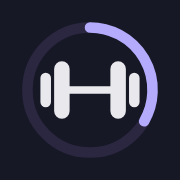
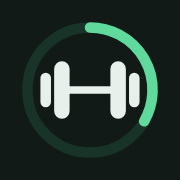
Tons de verde, rótulo da semana sem quebra e aviso ao concluir treino
- Troca a paleta lilás por tons de verde (app, ícone e manifesto).
- Rótulo de terça na faixa da semana passa a 'Braços' e as palavras
  não quebram mais no meio.
- Ao tocar em 'Concluir treino' com séries por marcar, mostra quais
  exercícios estão incompletos e pede confirmação.

Claude-Session: https://claude.ai/code/session_01XUsPRTrN34QXm9K14VDyo8

Changed region(s): [[0.1111, 0.1111, 0.8889, 0.8889]]

diff --git a/index.html b/index.html
@@ -4,7 +4,7 @@
 <meta charset="utf-8">
 <meta name="viewport" content="width=device-width,initial-scale=1,viewport-fit=cover">
 <title>Treino em Casa</title>
-<meta name="theme-color" content="#161826">
+<meta name="theme-color" content="#111a16">
 <meta name="apple-mobile-web-app-capable" content="yes">
 <meta name="mobile-web-app-capable" content="yes">
 <meta name="apple-mobile-web-app-status-bar-style" content="black-translucent">
@@ -15,13 +15,13 @@
 <link rel="preconnect" href="https://fonts.googleapis.com">
 <link rel="stylesheet" href="https://fonts.googleapis.com/css2?family=Inter:wght@400;500;600;700;800&display=swap">
 <style>
-/* Mesmo visual do app Habilitação Operacional: fundo azul-noite, cartões arredondados, destaque lilás, menu fixo embaixo */
+/* Mesmo visual do app Habilitação Operacional: fundo verde-escuro, cartões arredondados, destaque verde, menu fixo embaixo */
 :root{
-  --bg:#161826; --card:#1b1d2b; --card-2:#232532; --line:#2b2d3a; --line-2:#3f424d;
-  --ink:#e9e9ed; --soft:#cfd3e5; --muted:#9397ab; --dim:#75798c;
-  --accent:#b5abfc; --accent-2:#d2cefd; --accent-bg:#2b2741; --accent-line:#5d5294;
-  --ok:#8fd3a8; --ok-bg:#1f3329; --warn:#e0a06b; --warn-bg:#33251d;
-  --weight:#e0a06b; --fig:#e9e9ed; --fig-far:#595d6c; --tile:#232532; --floor:#3f424d; --mat:#2b2741;
+  --bg:#111a16; --card:#16211c; --card-2:#1d2a24; --line:#25332c; --line-2:#33453c;
+  --ink:#e7f0eb; --soft:#c8dbd0; --muted:#8ea398; --dim:#6c8177;
+  --accent:#5fd99c; --accent-2:#a8f0c8; --accent-bg:#183327; --accent-line:#2e6b4e;
+  --ok:#a3e07a; --ok-bg:#22331b; --warn:#e0a06b; --warn-bg:#33251d;
+  --weight:#e0a06b; --fig:#e7f0eb; --fig-far:#4f6359; --tile:#1d2a24; --floor:#33453c; --mat:#183327;
   --font:"Inter",system-ui,-apple-system,"Segoe UI",sans-serif;
   color-scheme:dark;
 }
@@ -65,7 +65,7 @@ button{cursor:pointer}
 .trio b{font-size:1.15rem;font-weight:500}
 
 .btn{border:1px solid var(--line-2);background:var(--card-2);border-radius:12px;padding:10px 14px;font-weight:600;font-size:.9rem}
-.btn.primary{background:var(--accent);color:#1b1d2b;border-color:var(--accent);width:100%;padding:14px;font-size:1rem}
+.btn.primary{background:var(--accent);color:#0d1a13;border-color:var(--accent);width:100%;padding:14px;font-size:1rem}
 .btn.ghost{background:transparent}
 .btn:active{transform:scale(.98)}
 :focus-visible{outline:2px solid var(--accent);outline-offset:2px}
@@ -74,10 +74,10 @@ button{cursor:pointer}
 .week{display:grid;grid-template-columns:repeat(7,minmax(0,1fr));gap:5px;margin-top:12px}
 .wd{border-radius:12px;padding:8px 2px;text-align:center;background:var(--card-2);border:1px solid var(--line);min-width:0}
 .wd b{display:block;font-size:.72rem;font-weight:600;color:var(--muted);text-transform:uppercase}
-.wd i{display:block;font-style:normal;font-size:.62rem;color:var(--dim);margin-top:3px;line-height:1.15;overflow-wrap:anywhere}
+.wd i{display:block;font-style:normal;font-size:.62rem;color:var(--dim);margin-top:3px;line-height:1.15;overflow-wrap:normal;word-break:keep-all;hyphens:none}
 .wd.train i{color:var(--soft)}
 .wd.today{border-color:var(--accent)}
-.wd.ok{background:var(--ok-bg);border-color:#2f5a44}
+.wd.ok{background:var(--ok-bg);border-color:#3d6630}
 .wd.ok i{color:var(--ok)}
 
 /* treino */
@@ -86,7 +86,7 @@ button{cursor:pointer}
 .chip small{display:block;font-size:.68rem;color:var(--muted);font-weight:500}
 .chip[aria-pressed="true"]{background:var(--accent-bg);border-color:var(--accent);color:var(--accent-2)}
 .ex{display:grid;grid-template-columns:112px minmax(0,1fr);gap:14px;align-items:start}
-.ex.done{border-color:#2f5a44}
+.ex.done{border-color:#3d6630}
 .fig{width:100%;aspect-ratio:6/5;background:var(--tile);border-radius:12px;display:block}
 .exb{display:flex;flex-direction:column;gap:5px;min-width:0}
 .exb h3{font-size:1rem;font-weight:600}
@@ -96,7 +96,7 @@ button{cursor:pointer}
 .tip{font-size:.82rem;color:var(--muted)}
 .sets{display:flex;gap:6px;flex-wrap:wrap;margin-top:4px}
 .set{width:32px;height:32px;border-radius:50%;border:1.5px solid var(--line-2);background:transparent;font-size:.8rem;font-weight:600;color:var(--muted)}
-.set.on{background:var(--ok);border-color:var(--ok);color:#16261d}
+.set.on{background:var(--ok);border-color:var(--ok);color:#13210d}
 .exrow{display:flex;gap:8px;align-items:center;flex-wrap:wrap;margin-top:4px}
 .exrow .btn{padding:6px 10px;font-size:.8rem;border-radius:10px}
 .kg{display:flex;align-items:center;gap:6px;font-size:.78rem;color:var(--muted)}
@@ -108,7 +108,7 @@ input.num{width:60px;background:var(--bg);border:1px solid var(--line-2);border-
 .chk:last-child{border-bottom:0}
 .box{width:26px;height:26px;border-radius:8px;border:1.5px solid var(--line-2);display:grid;place-items:center;flex:none;background:transparent}
 .box svg{width:16px;height:16px;opacity:0}
-.chk.on .box{background:var(--ok);border-color:var(--ok);color:#16261d}
+.chk.on .box{background:var(--ok);border-color:var(--ok);color:#13210d}
 .chk.on .box svg{opacity:1}
 .chk.on span{color:var(--muted);text-decoration:line-through}
 .bar{height:6px;border-radius:9px;background:var(--card-2);overflow:hidden;margin-top:10px}
@@ -129,7 +129,7 @@ ul.list{display:flex;flex-direction:column;gap:10px;padding-left:18px;color:var(
 ul.list b{color:var(--ink)}
 
 /* menu inferior */
-nav.tabs{position:fixed;left:0;right:0;bottom:0;z-index:30;background:rgba(22,24,38,.94);backdrop-filter:blur(12px);-webkit-backdrop-filter:blur(12px);border-top:1px solid var(--line);
+nav.tabs{position:fixed;left:0;right:0;bottom:0;z-index:30;background:rgba(17,26,22,.94);backdrop-filter:blur(12px);-webkit-backdrop-filter:blur(12px);border-top:1px solid var(--line);
   padding:8px max(8px,env(safe-area-inset-right,0px)) calc(8px + env(safe-area-inset-bottom,0px)) max(8px,env(safe-area-inset-left,0px))}
 nav.tabs .in{max-width:560px;margin:0 auto;display:grid;grid-template-columns:repeat(5,1fr);gap:4px}
 nav.tabs button{border:1px solid transparent;background:transparent;border-radius:14px;padding:8px 2px;display:flex;flex-direction:column;align-items:center;gap:4px;font-size:.7rem;color:var(--muted)}
@@ -143,11 +143,33 @@ nav.tabs button[aria-current="page"]{background:var(--accent-bg);border-color:va
 .timer.end .in{border-color:var(--ok)}
 .timer.end b{color:var(--ok)}
 .timer .btn{padding:6px 10px;font-size:.8rem}
+/* aviso de confirmação */
+.modal{position:fixed;inset:0;z-index:50;background:rgba(5,10,8,.7);display:flex;align-items:flex-end;justify-content:center;
+  padding:16px max(16px,env(safe-area-inset-right,0px)) calc(16px + env(safe-area-inset-bottom,0px)) max(16px,env(safe-area-inset-left,0px))}
+.modal .sheet{width:100%;max-width:520px;background:var(--card);border:1px solid var(--warn);border-radius:20px;padding:20px;display:flex;flex-direction:column;gap:12px;max-height:85vh;overflow:auto}
+.modal h2{font-size:1.15rem;font-weight:600}
+.modal ul{list-style:none;display:flex;flex-direction:column;gap:6px}
+.modal li{display:flex;justify-content:space-between;gap:10px;font-size:.88rem;border-bottom:1px solid var(--line);padding-bottom:6px}
+.modal li b{color:var(--warn);font-weight:600;white-space:nowrap}
+.modal .acts{display:flex;flex-direction:column;gap:8px;margin-top:4px}
+@media (min-width:600px){.modal{align-items:center}}
 @media (prefers-reduced-motion:reduce){.bar i{transition:none}}
 </style>
 </head>
 <body>
 <div class="app" id="app"></div>
+
+<div class="modal" id="modal" hidden role="dialog" aria-modal="true" aria-labelledby="mtitle"><div class="sheet">
+  <div class="label" style="color:var(--warn)">Atenção</div>
+  <h2 id="mtitle">Ainda faltam séries</h2>
+  <p class="small muted" id="mtext"></p>
+  <ul id="mlist"></ul>
+  <p class="small">Tem certeza de que concluiu tudo?</p>
+  <div class="acts">
+    <button class="btn primary" id="myes" type="button">Sim, concluí tudo</button>
+    <button class="btn" id="mno" type="button">Não, voltar ao treino</button>
+  </div>
+</div></div>
 
 <div class="timer" id="timer" hidden><div class="in">
   <span class="small muted">Descanso</span><b id="tleft">1:30</b>
@@ -159,26 +181,26 @@ nav.tabs button[aria-current="page"]{background:var(--accent-bg);border-color:va
 
 <script>
 const DAYS = [
-  {id:'d1', curto:'Pernas A', titulo:'Pernas e glúteos A', foco:'Foco em quadríceps e glúteos', dia:'Segunda', wd:1, itens:[
+  {id:'d1', curto:'Pernas A', mini:'Pernas A', titulo:'Pernas e glúteos A', foco:'Foco em quadríceps e glúteos', dia:'Segunda', wd:1, itens:[
     ['goblet','Agachamento com halter','4 séries de 15 repetições',4,'Segure o peso junto ao peito e desça controladamente, em 3 segundos.',90,'Os dois halteres de 5 kg juntos (10 kg)'],
     ['afundo','Afundo com halteres','3 séries de 10–12 por perna',3,'Mantenha o tronco firme e desça sem pressa.',90,'Um halter de 5 kg em cada mão'],
     ['sumo','Agachamento sumô','3 séries de 15–20 repetições',3,'Pés afastados e pontas levemente para fora. Pare 1 segundo embaixo.',90,'Os dois halteres de 5 kg juntos (10 kg)'],
     ['pontePeso','Elevação de quadril com peso','4 séries de 15–20 repetições',4,'Contraia os glúteos no alto e segure 2 segundos.',90,'Os dois halteres de 5 kg sobre o quadril (10 kg)'],
     ['extensao','Extensão de joelho com caneleira','3 séries de 15 por perna',3,'Estenda o joelho sem dar impulso e segure 2 segundos lá em cima.',60,'Caneleira de 3 kg']]},
-  {id:'d2', curto:'Superior', titulo:'Braços, costas, ombros e abdômen', foco:'Foco em membros superiores', dia:'Terça', wd:2, itens:[
+  {id:'d2', curto:'Superior', mini:'Braços', titulo:'Braços, costas, ombros e abdômen', foco:'Foco em membros superiores', dia:'Terça', wd:2, itens:[
     ['remada','Remada curvada','3 séries de 12–15 repetições',3,'Tronco inclinado e costas retas; puxe os cotovelos para trás.',90,'Um halter de 5 kg em cada mão'],
     ['desenv','Desenvolvimento de ombros','3 séries de 12 repetições',3,'Empurre os halteres para cima sem arquear a lombar.',90,'5 kg em cada mão (use 3 kg se não completar as 12)'],
     ['rosca','Rosca bíceps','3 séries de 12 repetições',3,'Cotovelos colados ao corpo, sem balançar o tronco.',60,'Um halter de 5 kg em cada mão'],
     ['frances','Tríceps francês','3 séries de 12–15 repetições',3,'Cotovelos apontados para cima; mova só o antebraço.',60,'Um halter de 5 kg segurado com as duas mãos'],
     ['lateral','Elevação lateral','3 séries de 12–15 repetições',3,'Suba os braços até a altura dos ombros, devagar.',60,'Um halter de 3 kg em cada mão'],
     ['prancha','Prancha abdominal','3 séries de 30–40 segundos',3,'Corpo em linha reta, abdômen e glúteos contraídos.',60,'Sem peso']]},
-  {id:'d3', curto:'Pernas B', titulo:'Pernas e glúteos B', foco:'Foco em posterior e glúteos', dia:'Quinta', wd:4, itens:[
+  {id:'d3', curto:'Pernas B', mini:'Pernas B', titulo:'Pernas e glúteos B', foco:'Foco em posterior e glúteos', dia:'Quinta', wd:4, itens:[
     ['stiff','Stiff com halteres','4 séries de 12–15 repetições',4,'Leve o quadril para trás, mantendo a coluna neutra. Desça em 3 segundos.',90,'Um halter de 5 kg em cada mão'],
     ['bulgaro','Agachamento búlgaro','3 séries de 10 por perna',3,'Use uma cadeira firme para apoiar o pé de trás.',90,'3 kg em cada mão; passe para 5 kg quando ficar fácil'],
     ['coice','Coice de glúteo com caneleira','3 séries de 15–20 por perna',3,'Suba a perna sem arquear a lombar e segure 1 segundo no alto.',60,'Caneleira de 3 kg'],
     ['abducao','Abdução de quadril com caneleira','3 séries de 15–20 por perna',3,'Deitada de lado, suba a perna de cima com controle.',60,'Caneleira de 3 kg'],
     ['ponte','Elevação de quadril','3 séries de 20 repetições',3,'Contraia os glúteos no alto, segure 2 segundos e desça devagar.',60,'Sem peso']]},
-  {id:'d4', curto:'Corpo todo', titulo:'Corpo todo + abdômen', foco:'Foco em fortalecimento geral', dia:'Sábado', wd:6, itens:[
+  {id:'d4', curto:'Corpo todo', mini:'Corpo todo', titulo:'Corpo todo + abdômen', foco:'Foco em fortalecimento geral', dia:'Sábado', wd:6, itens:[
     ['agdesenv','Agachamento com desenvolvimento','3 séries de 12 repetições',3,'Ao subir do agachamento, empurre os halteres para cima.',90,'Um halter de 3 kg em cada mão'],
     ['stiff','Stiff com halteres','3 séries de 12–15 repetições',3,'Leve o quadril para trás, mantendo a coluna neutra.',90,'Um halter de 5 kg em cada mão'],
     ['remada1','Remada com halteres','3 séries de 12–15 por braço',3,'Puxe o halter em direção ao quadril.',90,'Um halter de 5 kg'],
@@ -364,7 +386,7 @@ function header(title){
 }
 function weekStrip(){
   return `<div class="week">${[1,2,3,4,5,6,0].map(i=>{const d=DAYS.find(x=>x.wd===i);
-    return `<div class="wd${d?' train':''}${today.getDay()===i?' today':''}${d&&cw()[d.id]?' ok':''}"><b>${NOMES_SEMANA[i]}</b><i>${d?d.curto:'Folga'}</i></div>`;}).join('')}</div>`;
+    return `<div class="wd${d?' train':''}${today.getDay()===i?' today':''}${d&&cw()[d.id]?' ok':''}"><b>${NOMES_SEMANA[i]}</b><i>${d?d.mini:'Folga'}</i></div>`;}).join('')}</div>`;
 }
 function painel(){
   const n=doneCount(), C=2*Math.PI*84, td=todayDay();
@@ -383,7 +405,7 @@ function painel(){
       <div><span class="eyebrow">Programa</span><b>S${st.semana}/4</b></div>
       <div><span class="eyebrow">Meta</span><b>4 dias</b></div></div>
   </div>
-  ${td&&cw()[td.id]?`<div class="card" style="border-color:#2f5a44"><div class="label" style="color:var(--ok)">${ico('check','style="color:var(--ok)"')}Treino de hoje concluído</div><p class="small muted" style="margin-top:6px">Boa! Descanse e se alimente bem.</p></div>`:''}
+  ${td&&cw()[td.id]?`<div class="card" style="border-color:#3d6630"><div class="label" style="color:var(--ok)">${ico('check','style="color:var(--ok)"')}Treino de hoje concluído</div><p class="small muted" style="margin-top:6px">Boa! Descanse e se alimente bem.</p></div>`:''}
   ${!td?`<div class="card warn"><h2>Hoje é dia de descanso</h2><p class="small muted" style="margin-top:4px">A recuperação faz parte do ganho de massa.</p></div>`:''}
   <div class="card accent">
     <div class="label">${ico('treino')}Próximo treino · ${prox.txt}</div>
@@ -411,7 +433,7 @@ function treino(){
         <div class="exrow"><button type="button" class="btn rest" data-r="${rest}">Descanso ${fmt(rest)}</button>
           <label class="kg">Carga S${st.semana}<input class="num" type="text" inputmode="decimal" placeholder="kg" value="${c}" data-sk="${sk}"></label></div>
       </div></article>`;}).join('')}
-  <button class="btn primary" id="fin" type="button" ${feito?'style="background:var(--ok);border-color:var(--ok);color:#16261d"':''}>${feito?'Treino concluído ✓ (toque para desfazer)':'Concluir treino de '+d.dia.toLowerCase()}</button>`;
+  <button class="btn primary" id="fin" type="button" ${feito?'style="background:var(--ok);border-color:var(--ok);color:#13210d"':''}>${feito?'Treino concluído ✓ (toque para desfazer)':'Concluir treino de '+d.dia.toLowerCase()}</button>`;
 }
 function bindTreino(){
   document.querySelectorAll('.chip').forEach(b=>b.onclick=()=>{st.dia=b.dataset.d;save();render();});
@@ -423,8 +445,21 @@ function bindTreino(){
     if(arr[s]&&s<n-1)startTimer(+b.dataset.r);});
   document.querySelectorAll('.rest').forEach(b=>b.onclick=()=>startTimer(+b.dataset.r));
   document.querySelectorAll('input.num').forEach(inp=>inp.oninput=()=>{setCarga(inp.dataset.sk,st.semana,inp.value);});
-  $('fin').onclick=()=>{setCheck(st.dia,!cw()[st.dia]);render();};
+  $('fin').onclick=()=>{
+    if(cw()[st.dia]){setCheck(st.dia,false);render();return;}
+    const d=DAYS.find(x=>x.id===st.dia);
+    const falta=d.itens.map(([,nome,,n],i)=>({nome,n,feitas:(st.series[d.id+'-'+i]||[]).filter(Boolean).length})).filter(x=>x.feitas<x.n);
+    if(!falta.length){concluir(d);return;}
+    const total=falta.reduce((a,x)=>a+(x.n-x.feitas),0), semNada=falta.filter(x=>x.feitas===0).length;
+    $('mtext').textContent=`Faltam ${total} ${total===1?'série':'séries'} em ${falta.length} ${falta.length===1?'exercício':'exercícios'}`+(semNada?` (${semNada} sem nenhuma série marcada)`:'')+':';
+    $('mlist').innerHTML='';
+    falta.forEach(x=>{const li=document.createElement('li'),a=document.createElement('span'),b=document.createElement('b');
+      a.textContent=x.nome;b.textContent=`${x.feitas} de ${x.n} séries`;li.append(a,b);$('mlist').appendChild(li);});
+    $('modal').hidden=false; $('mno').focus();
+    $('myes').onclick=()=>{$('modal').hidden=true;d.itens.forEach((it,i)=>{st.series[d.id+'-'+i]=Array(it[3]).fill(true);});concluir(d);};
+  };
 }
+function concluir(d){setCheck(d.id,true);render();window.scrollTo(0,0);}
 function semana(){
   const n=doneCount();
   return header('Semana')+`
@@ -487,6 +522,9 @@ function startTimer(s){tLeft=s;$('timer').hidden=false;$('timer').classList.remo
   tInt=setInterval(()=>{tLeft--;showT();if(tLeft<=0){clearInterval(tInt);$('timer').classList.add('end');$('tleft').textContent='Bora!';
     try{navigator.vibrate&&navigator.vibrate([200,100,200]);}catch(e){}}},1000);}
 function showT(){$('tleft').textContent=fmt(Math.max(0,tLeft));}
+$('mno').onclick=()=>{$('modal').hidden=true;};
+$('modal').addEventListener('click',e=>{if(e.target.id==='modal')$('modal').hidden=true;});
+document.addEventListener('keydown',e=>{if(e.key==='Escape')$('modal').hidden=true;});
 $('tplus').onclick=()=>{if(tLeft<=0)startTimer(15);else{tLeft+=15;showT();}};
 $('tstop').onclick=()=>{clearInterval(tInt);$('timer').hidden=true;};
 

diff --git a/sw.js b/sw.js
@@ -1,4 +1,4 @@
-const CACHE = 'treino-casa-v1';
+const CACHE = 'treino-casa-v2';
 const ARQUIVOS = ['./', './index.html', './manifest.json', './icon-180.png', './icon-512.png'];
 
 self.addEventListener('install', e => {
